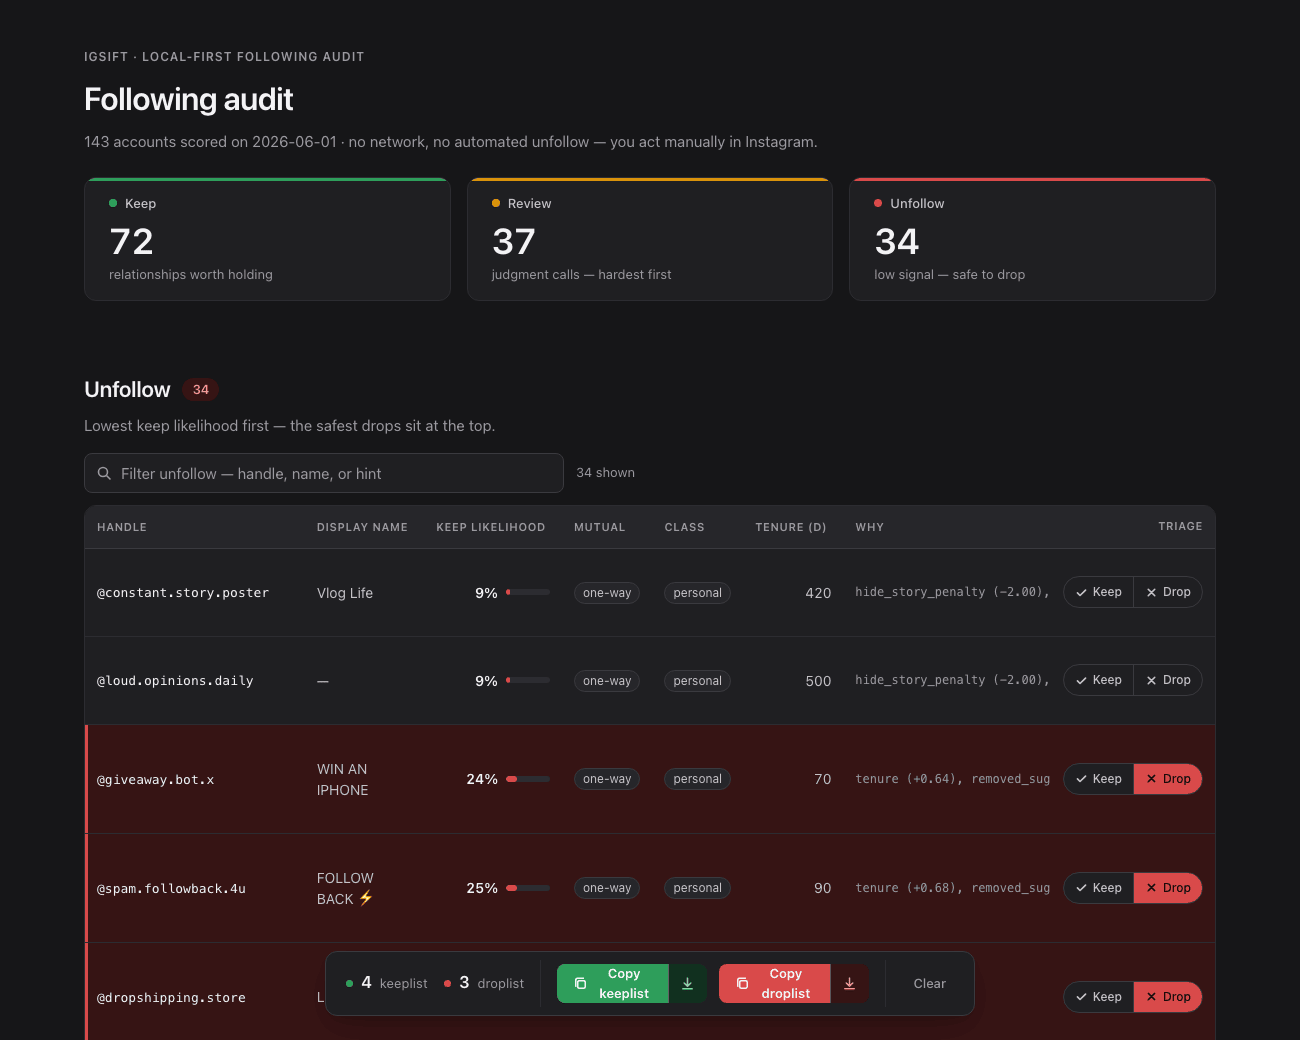
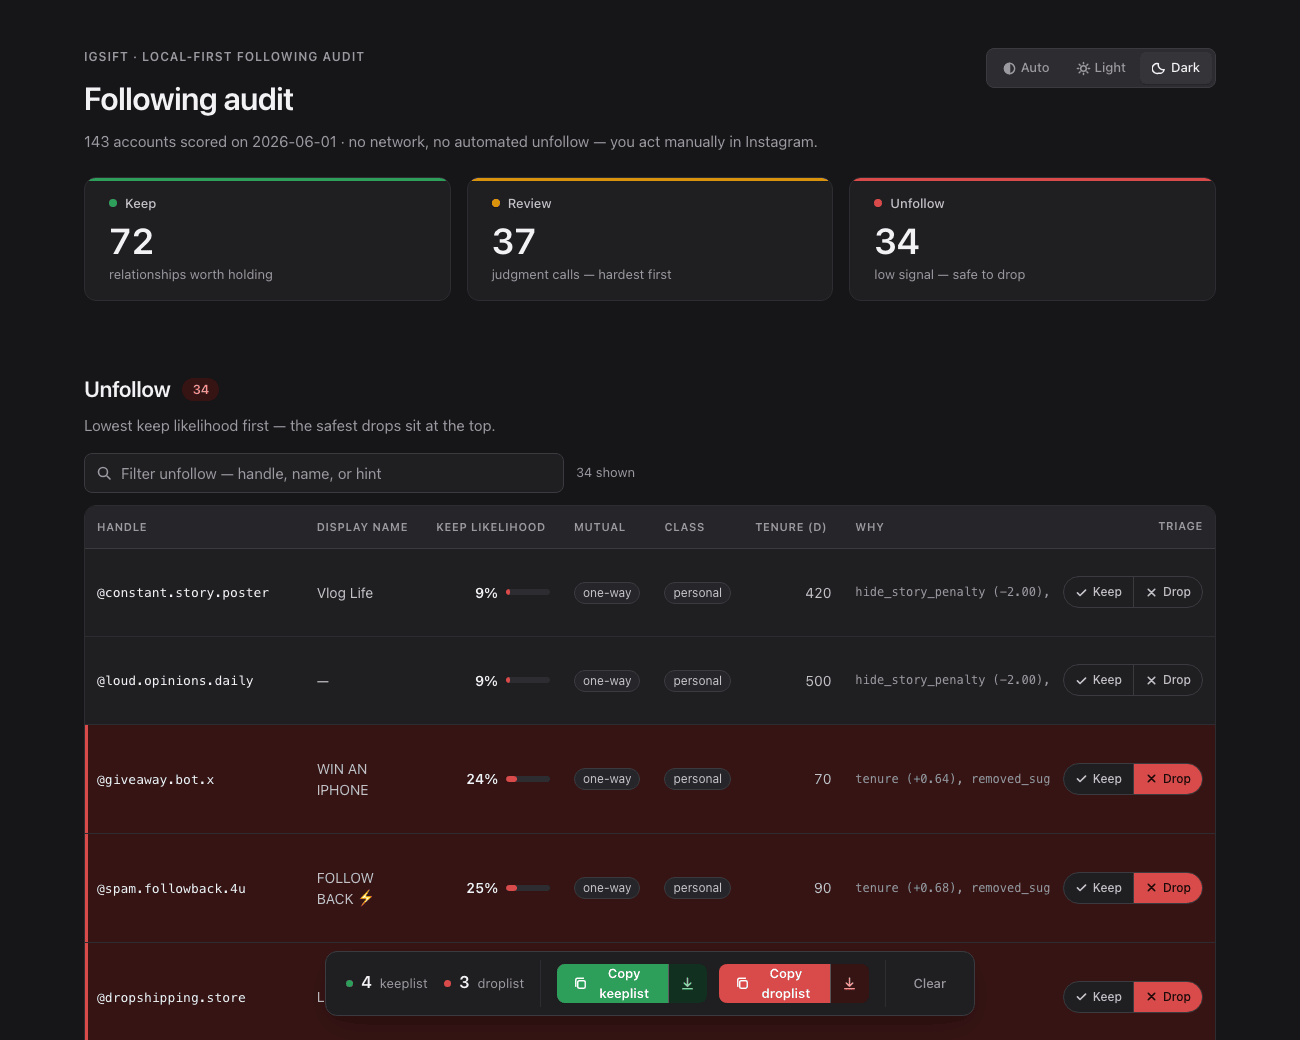
docs: document the HTML report theme switcher + refresh screenshots
- html.rs module doc: add a Theme section (data-theme model, dark_rules
  single-source/two-site emission, anti-FOUC boot, JS-disabled fallback).
- README: describe the Auto/Light/Dark switcher; show both light and dark
  report screenshots side by side instead of swapping one via <picture>.
- DESIGN.md + CHANGELOG: note the switcher and its theming model.
- showcase-shots.sh: seed each shot's theme (stamp data-theme on <html> so
  the render and selected radio are deterministic; the boot script reads
  localStorage in <head>, too early for the body-level triage seed) — the
  light shot shows Light selected, the dark shot shows Dark.
- Regenerated html-report-{light,dark}.png with the switcher visible.

Changed region(s): [[0.7385, 0.0308, 0.9538, 0.0923]]

diff --git a/src/output/html.rs b/src/output/html.rs
@@ -15,6 +15,19 @@
 //! model. Keep/drop are mutually exclusive per row, mirroring
 //! `lists::ensure_disjoint`.
 //!
+//! ## Theme
+//!
+//! A header [`write_theme_switcher`] segmented control (Auto / Light / Dark,
+//! an ARIA radiogroup) lets the reader override the OS preference; the choice
+//! persists in `localStorage` (`igsift.theme.v1`). Theming is driven by a
+//! `data-theme` attribute on `<html>`. The dark token set is emitted once by
+//! [`dark_rules`] but under two selectors — `:root[data-theme="dark"]`
+//! (explicit) and a `prefers-color-scheme: dark` media query scoped to
+//! `:root[data-theme="auto"]` (system-tracking) — so manual and system dark
+//! never drift. An anti-FOUC boot script stamps the persisted theme onto
+//! `<html>` before the stylesheet paints; with JS disabled the markup default
+//! (`auto`) plus the media query still pick the right theme.
+//!
 //! ## Why hand-rolled markup
 //!
 //! No template engine (`maud`, `minijinja`, …). The output is one

diff --git a/README.md b/README.md
@@ -28,12 +28,14 @@ distribution, and the strongest keeps next to the first accounts to drop:
 The HTML report is the one you act from: sortable, filterable tables with a
 per-row **Keep / Drop** toggle. Your picks collect in a floating bar that
 copies or downloads the exact lines for your keeplist / droplist — nothing
-leaves the page. It ships with real dark mode (shown here to match your theme):
+leaves the page. It follows your system light/dark setting out of the box,
+with an **Auto / Light / Dark** switcher in the header to override it — both
+themes below:
 
-<picture>
-  <source media="(prefers-color-scheme: dark)" srcset="docs/assets/html-report-dark.png">
-  <img alt="igsift HTML report — stat tiles, the Unfollow table with keep-likelihood bars and Keep/Drop triage, and the floating export bar" src="docs/assets/html-report-light.png">
-</picture>
+<p align="center">
+  <img width="49%" alt="igsift HTML report, light theme — stat tiles, the Unfollow table with keep-likelihood bars and Keep/Drop triage, the floating export bar, and the Auto/Light/Dark theme switcher" src="docs/assets/html-report-light.png">
+  <img width="49%" alt="igsift HTML report, dark theme — the same view with the Dark theme selected in the header switcher" src="docs/assets/html-report-dark.png">
+</p>
 
 <sub>Synthetic sample, not a real export — personal accounts are fabricated; any brand pages shown are public. Regenerate with <code>scripts/showcase-shots.sh</code> (data from <code>examples/showcase.rs</code>, scored through the real pipeline).</sub>
 

diff --git a/docs/DESIGN.md b/docs/DESIGN.md
@@ -497,7 +497,14 @@ then **Copies** or **Downloads** the appendable handle lists to paste into
 to disk, so collect-and-paste is the model — nothing leaves the browser.
 Rows are server-rendered with HTML-escaping as the security boundary; the
 JS reads handles back from `data-` attributes only to build the export
-text, never as `innerHTML`.
+text, never as `innerHTML`. The report tracks the OS `prefers-color-scheme`
+by default and adds a header **Auto / Light / Dark** switcher (ARIA
+radiogroup, choice persisted in `localStorage`) to override it; theming is
+driven by a `data-theme` attribute on `<html>`, with the dark token set
+emitted from one source under both `:root[data-theme="dark"]` and a
+media query scoped to `:root[data-theme="auto"]` so manual and system dark
+can't drift. An anti-FOUC boot script applies the saved theme before first
+paint; JS-disabled falls back to `auto` + the media query.
 
 Filenames: `following-audit_YYYY-MM-DD.{csv,md,html}`, written next to
 the input by default, overridable via `--out`.

diff --git a/CHANGELOG.md b/CHANGELOG.md
@@ -55,7 +55,9 @@ account. Fully offline — no network, database, or automated unfollow.
       segmented controls (green = keeplist, red = droplist) — that Copies or
       Downloads the appendable handle lists to paste into
       `config/keeplist.txt` / `config/droplist.txt`. Fully local; nothing
-      leaves the browser.
+      leaves the browser. Follows the OS light/dark setting with a header
+      **Auto / Light / Dark** switcher (ARIA radiogroup, persisted in
+      `localStorage`, anti-FOUC) to override it.
 - Polished terminal run-summary dashboard: boxed header banner, colored bucket
   panel with proportional bars, keep_prob histogram, side-by-side keep/unfollow
   cards, and a colored accuracy block. Pipe-safe — emits no ANSI when stdout is